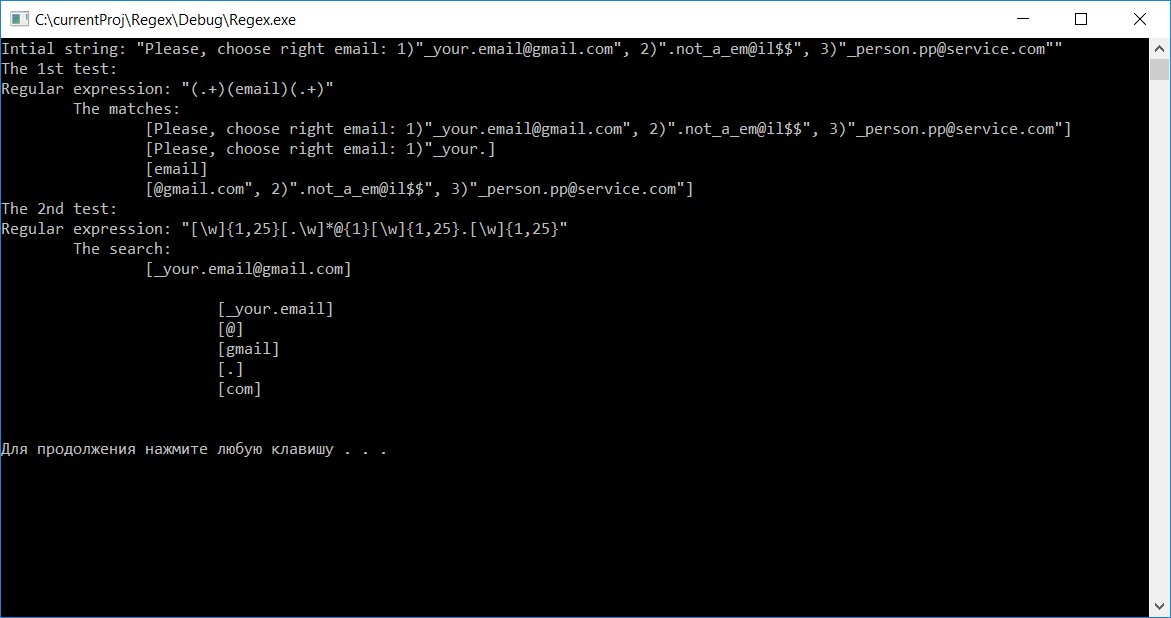
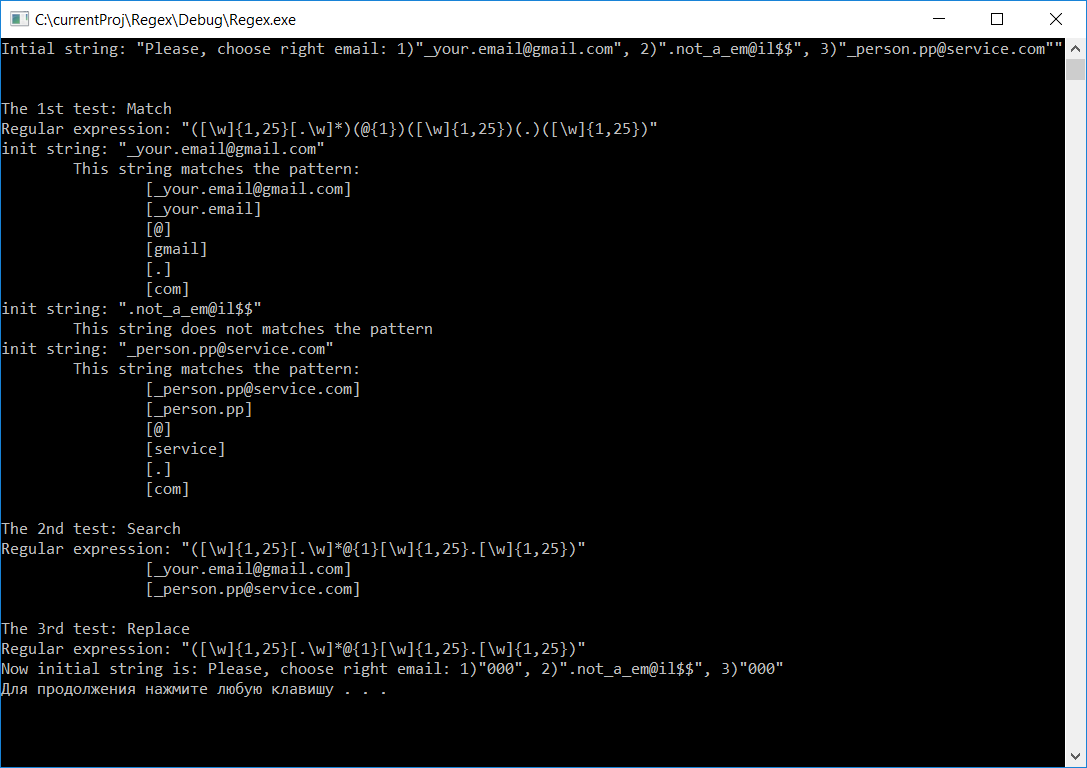
improved project for working with std::regex

diff --git a/SortMethods/Regex/Regex.cpp b/SortMethods/Regex/Regex.cpp
@@ -1,32 +1,42 @@
 #include <iostream>
 #include <regex>
 #include <string>
+#include <vector>
 
 using namespace std;
 
-void checkRegex(string initialString) {
-	// BLOCK A: find all substrings with "email"
-	{
-		string rx = "(.+)(email)(.+)";
-		regex rgx(rx);
-		cmatch matchRes;
+// this work on regex101.com : ((?<![\w\S\B])(([\w]{1,25}[\.\w]*)(@{1})([\w]{1,25})(\.)([\w]{1,25})))(?![\w\S\B])
 
-		cout << "The 1st test:\r\n";
-		cout << "Regular expression: \"" << rx << "\"\r\n";
+// find all substrings with "email"
+void checkRegexMatch(vector<string> strVector) {
+	string rx = "([\\w]{1,25}[\.\\w]*)(@{1})([\\w]{1,25})(\.)([\\w]{1,25})";
+	regex re(rx);
+	cmatch matchRes;
 
-		if (regex_match(initialString.c_str(), matchRes, rgx))
+	cout << "The 1st test: Match\r\n";
+	cout << "Regular expression: \"" << rx << "\"\r\n";
+
+	for (int i = 0; i < strVector.size(); i++) {
+		cout << "init string: \"" << strVector[i] << "\"\r\n";
+
+		if (regex_match(strVector[i].c_str(), matchRes, re))
 		{
-			cout << "\tThe matches: ";
+			cout << "\tThis string matches the pattern: ";
 			for (unsigned i = 0; i < matchRes.size(); ++i) {
 				cout << "\r\n\t\t[" << matchRes[i] << "] ";
 			}
 			cout << "\r\n";
 		}
 		else
-			cout << "\tNo matches\r\n";
+			cout << "\tThis string does not matches the pattern\r\n";
 	}
+	cout << "\r\n";
+}
 
-	// lambda func that parse email from BLOCK B
+// search all real emails contained in the string
+void checkRegexSearch(string initialString) {
+
+	// lambda func that parse email // now not used
 	auto f = [](string str){
 		string rx = "([\\w]{1,25}[\.\\w]*)(@{1})([\\w]{1,25})(\.)([\\w]{1,25})";
 		regex rgx(rx);
@@ -40,36 +50,44 @@ void checkRegex(string initialString) {
 		cout << "\r\n";
 	};
 
-	// BLOCK B: search all real emails contained in the string
-	{
-		// this work on regex101.com : ((?<![\w\S\B])(([\w]{1,25}[\.\w]*)(@{1})([\w]{1,25})(\.)([\w]{1,25})))(?![\w\S\B])
-		string rx = "[\\w]{1,25}[\.\\w]*@{1}[\\w]{1,25}\.[\\w]{1,25}";
-		regex rgx(rx);
-		cmatch matchRes;
+	string rx = "([\\w]{1,25}[\.\\w]*@{1}[\\w]{1,25}\.[\\w]{1,25})";
+	regex re(rx);
+	cmatch matchRes;
 
-		cout << "The 2nd test:\r\n";
-		cout << "Regular expression: \"" << rx << "\"\r\n";
-		
-		if (regex_search(initialString.c_str(), matchRes, rgx))
-		{
-			cout << "\tThe search: ";
-			for (unsigned i = 0; i < matchRes.size(); ++i) {
-				cout << "\r\n\t\t[" << matchRes[i] << "] " << endl;
-				f(matchRes[i]);
-			}
-			cout << "\r\n";
-		}
-		else
-			cout << "\tNo matches\r\n";
+	cout << "The 2nd test: Search\r\n";
+	cout << "Regular expression: \"" << rx << "\"\r\n";
+
+	while (regex_search(initialString.c_str(), matchRes, re)) {
+		for (int i = 1; i < matchRes.size(); i++)
+			std::cout << "\t\t[" << matchRes[i] << "]\r\n";
+		//f(matchRes[i]);
+		initialString = (matchRes.suffix()).str();
 	}
+
+	cout << "\r\n";
+}
+
+void checkRegexReplace(string initialString) {
+	string rx = "([\\w]{1,25}[\.\\w]*@{1}[\\w]{1,25}\.[\\w]{1,25})";
+	regex re(rx);
+	string replacement = "000";
+
+	cout << "The 3rd test: Replace\r\n";
+	cout << "Regular expression: \"" << rx << "\"\r\n";
+
+	initialString = regex_replace(initialString.c_str(), re, replacement.c_str());
+
+	cout << "Now initial string is: " << initialString << "\r\n";
 }
 
 int main() {
 	string targetSequence = "Please, choose right email: 1)\"_your.email@gmail.com\", 2)\".not_a_em@il$$\", 3)\"_person.pp@service.com\"";
-	cout << "Intial string: \"" << targetSequence << "\"\r\n";
+	vector<string> strVector = { "_your.email@gmail.com", ".not_a_em@il$$", "_person.pp@service.com" };
+	cout << "Intial string: \"" << targetSequence << "\"\r\n\r\n";
 
-	checkRegex(targetSequence);
-	cout << endl;
+	checkRegexMatch(strVector);
+	checkRegexSearch(targetSequence);
+	checkRegexReplace(targetSequence);
 	
 	system("pause");
 	return 0;
